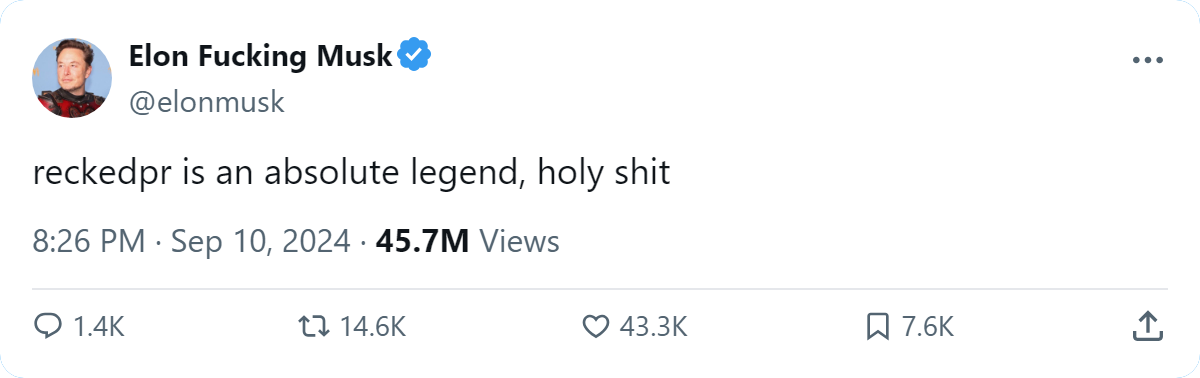
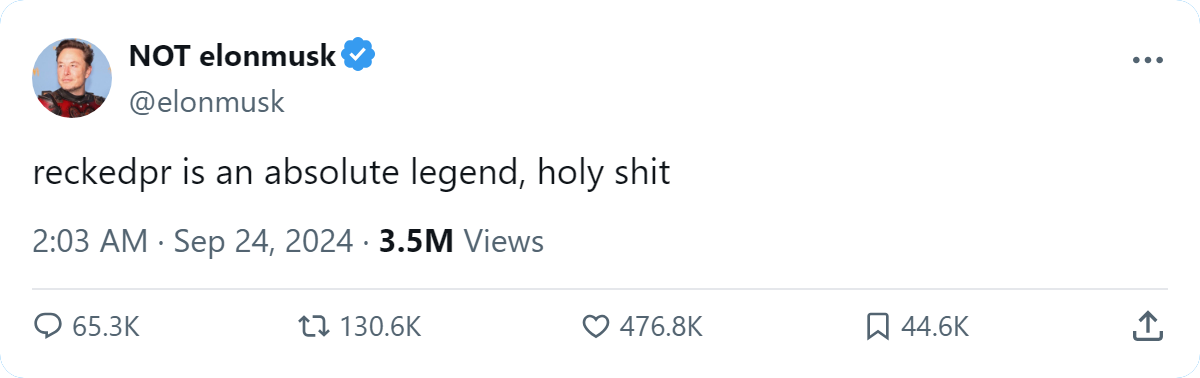
Update example settings

diff --git a/tweetGenerator.py b/tweetGenerator.py
@@ -104,7 +104,7 @@ def generateTweet(handle,name,tweet_text,avatar,popularity):
 
         input_field.clear()
         time.sleep(0.2)
-        for i in range(5):
+        for i in range(9):
             input_field.clear()
         input_field.send_keys(text)
 
@@ -158,7 +158,7 @@ def generateTweet(handle,name,tweet_text,avatar,popularity):
 
     avatar_field.clear()
     time.sleep(0.2)
-    for i in range(5):
+    for i in range(9):
         avatar_field.clear()
     avatar_field.send_keys(avatar)
 
@@ -199,7 +199,7 @@ def generateTweet(handle,name,tweet_text,avatar,popularity):
 
 if __name__ == '__main__':
     generateTweet('elonmusk',
-                'TTV Xx_Elon_xX',
+                'NOT elonmusk',
                 'reckedpr is an absolute legend, holy shit',
                 'https://d1kd6h2y8iq4lp.cloudfront.net/avatars/elonmusk',
-                12)
+                87)
